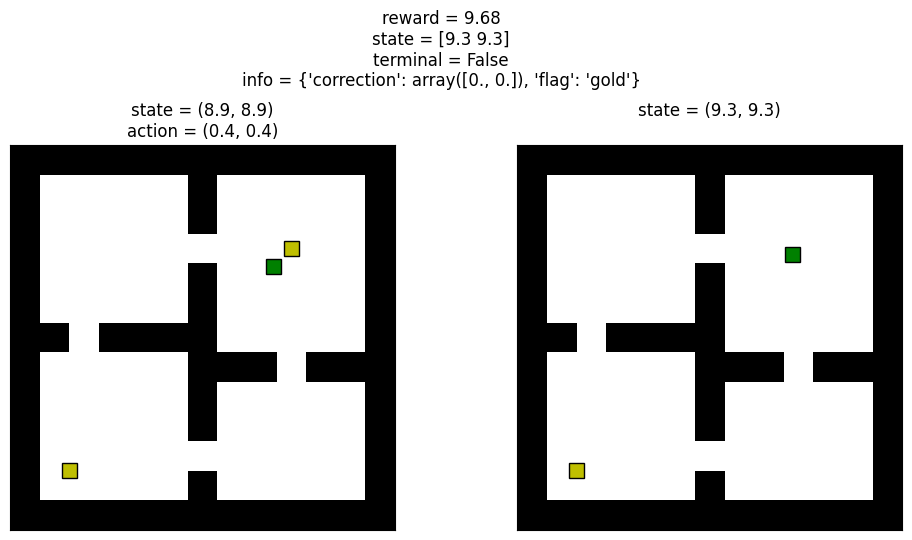
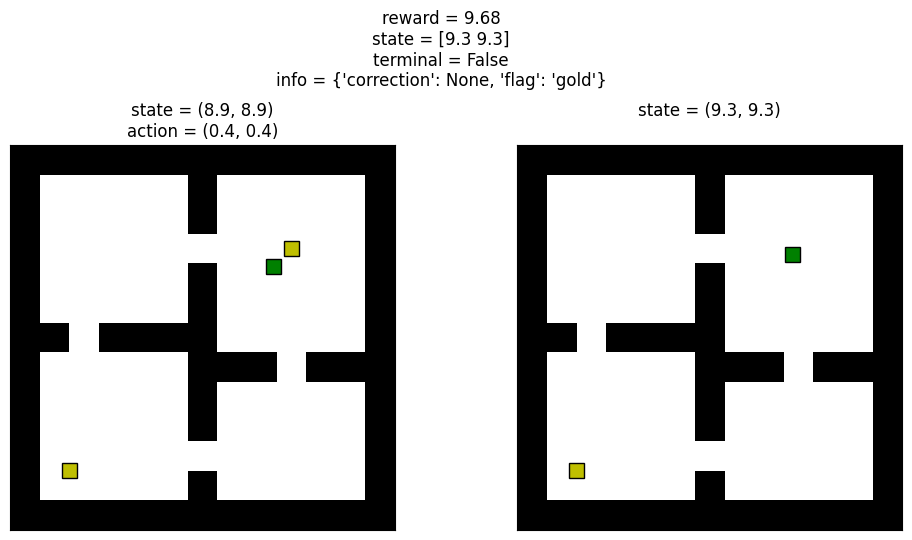
set correction to None if no correction

Changed region(s): [[0.2763, 0.1185, 0.7061, 0.1778]]

diff --git a/continuous_gridworld/env.py b/continuous_gridworld/env.py
@@ -109,7 +109,7 @@ class GridWorld(Base):
         check      = self._check_overlap(self.agent(new))
         n          = len(check)
 
-        correction = np.zeros_like(action)
+        correction = None
 
         if n:
             for modifier in [[1,0],[0,1],[0,0]]:

diff --git a/README.md b/README.md
@@ -94,7 +94,7 @@ anim.save('four-rooms-get-gold.gif')
 
 Upon reaching the gold state, the final `info` value is:
 
-```{'correction': array([0., 0.]), 'flag': 'gold'}```
+```{'correction': None, 'flag': 'gold'}```
 
 The `info` dictionary will always contain two entries:
 
